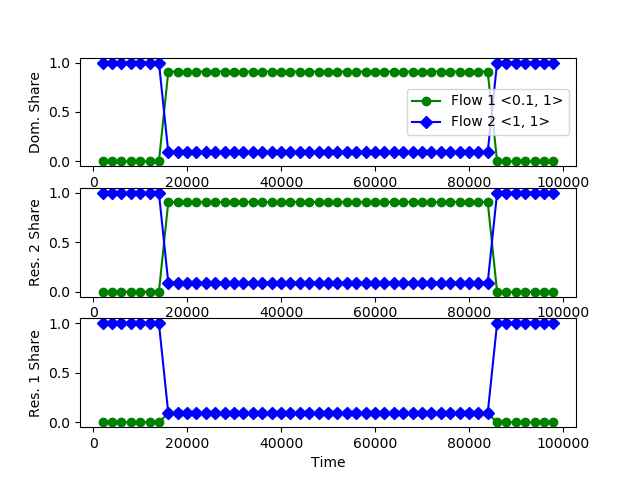
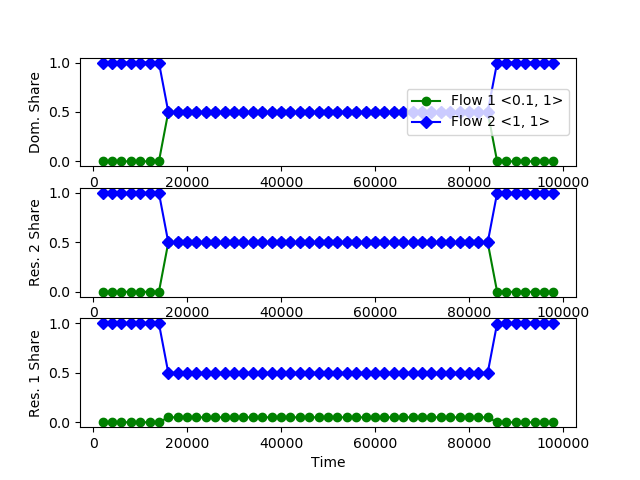
Rearranged code

Changed region(s): [[0.25, 0.4062, 0.7812, 0.625], [0.25, 0.125, 0.7812, 0.3438], [0.25, 0.6875, 0.7812, 0.9062]]

diff --git a/figures/figure_11.py b/figures/figure_11.py
@@ -1,123 +1,20 @@
-import numpy as np
 import matplotlib.pyplot as plt
-
-class Flow:
-    def __init__(self, profile, startTime = 0, endTime = 10000):
-        self.profile = profile
-        self.startTime = startTime
-        self.endTime = endTime
-        return 
-    def active(self, time):
-        return time >= self.startTime and time <= self.endTime
-
-def sample(packetsProcessed, flows, time):
-    total = [[0, 0]] * len(flows)
-    maxResource = [0, 0]
-    for i in range(len(flows)):
-        total[i] = [total[i][j] + packetsProcessed[i] * flows[i].profile[j] for j in range(2)]
-        maxResource = [maxResource[j] + packetsProcessed[i] * flows[i].profile[j] for j in range(2)]
-    maxResource = max(maxResource)
-    if maxResource == 0:
-        return [[time] + [0 for j in range(2)] for i in range(len(flows))]
-    else: return [[time] + [total[i][j] / maxResource for j in range(2)] for i in range(len(flows))]
-
-
-
-def SFSimulator(flows, maxTime = 15000, timeStep = 0.1, sampleTime = 2000, sampleSize = 1000): # For two resources
-    """
-    Single-resource Fair Queuing (For the first resource)
-    """
-    packetsProcessed = [0 for i in range(len(flows))]
-    packetInProcess = [0 for i in range(len(flows))]
-    samples = []
-
-    for t in range(round(maxTime/timeStep)):
-        time = t * timeStep
-
-        # measure the share of a sample 
-        if time > 0 and time % sampleTime == 0:
-            samples.append(sample(packetsProcessed, flows, time))
-        if time > 0 and time % sampleSize == 0:
-            packetsProcessed = [0 for i in range(len(flows))]
-
-        # counting active flows for resource 1
-        activeFlowNum = 0
-        for i in range(len(flows)): 
-            if flows[i].active(time): activeFlowNum += 1
-        for i in range(len(flows)):
-            if flows[i].active(time):
-                if packetInProcess[i] <= 0:
-                    packetInProcess[i] = flows[i].profile[0]
-                packetInProcess[i] -= timeStep/activeFlowNum
-                if packetInProcess[i] <= 0: # finish processing a packet for rsc 1
-                    packetsProcessed[i] += 1
-
-    return samples
-
-
-def PFSimulator(flows, maxTime = 15000, timeStep = 0.1, bufferThreshold = 1, \
-    sampleTime = 2000, sampleSize = 1000): # For two resources
-    """
-    Per-Resource Fairness
-    """
-
-    packetsProcessed = [0 for i in range(len(flows))]
-    packetInProcess1 = [0 for i in range(len(flows))]
-    packetInProcess2 = [0 for i in range(len(flows))]
-    buffer = [0 for i in range(len(flows))]
-    samples = []
-
-    for t in range(round(maxTime/timeStep)):
-        time = t * timeStep
-
-        # measure the share of a sample 
-        if time > 0 and time % sampleTime == 0:
-            samples.append(sample(packetsProcessed, flows, time))
-        if time > 0 and time % sampleSize == 0:
-            packetsProcessed = [0 for i in range(len(flows))]
-
-        # counting active flows for resource 1
-        activeFlowNum = 0
-        for i in range(len(flows)): # a flow is only competing for resource 1 if the buffer for rsc 2 is not full
-            if flows[i].active(time) and buffer[i] < bufferThreshold: activeFlowNum += 1
-        for i in range(len(flows)):
-            if flows[i].active(time) and buffer[i] < bufferThreshold:
-                if packetInProcess1[i] <= 0:
-                    packetInProcess1[i] = flows[i].profile[0]
-                packetInProcess1[i] -= timeStep/activeFlowNum
-                if packetInProcess1[i] <= 0: # finish processing a packet for rsc 1
-                    buffer[i] += 1
-
-        # counting active flows for resource 2
-        activeFlowNum = 0
-        for i in range(len(flows)):
-            if packetInProcess2[i] > 0 or buffer[i] > 0:
-                activeFlowNum += 1
-        for i in range(len(flows)):
-            if packetInProcess2[i] <= 0 and buffer[i] > 0:
-                packetInProcess2[i] = flows[i].profile[1]
-                buffer[i] -= 1
-            if packetInProcess2[i] > 0:
-                packetInProcess2[i] -= timeStep/activeFlowNum
-                if packetInProcess2[i] <= 0: # finish processing a packet
-                    packetsProcessed[i] += 1      
-
-    return samples
+import PF_simulation
 
 
 #---------------------------------------------------------------
 # Plotting Figure 11
-pf = SFSimulator([Flow((0.1, 1), startTime = 15000, endTime = 85000), \
-    Flow((1, 1), startTime = 0, endTime = 100000)], maxTime = 100000)
+sf = PF_simulation.SFSimulator([PF_simulation.Flow((0.1, 1), startTime = 15000, endTime = 85000), \
+    PF_simulation.Flow((1, 1), startTime = 0, endTime = 100000)], maxTime = 100000)
 _fig, axs = plt.subplots(3, 1)
 
-time = [pf[t][0][0] for t in range(len(pf))]
+time = [sf[t][0][0] for t in range(len(sf))]
 jobStyle = ['go-', 'bD-']
 label = ['Flow 1 <0.1, 1>', 'Flow 2 <1, 1>']
 for i in range(2): # for each flow
-    rsc1 = [pf[t][i][1] for t in range(len(pf))] # resource 1
-    rsc2 = [pf[t][i][2] for t in range(len(pf))] # resource 2
-    dom = [max(pf[t][i][1], pf[t][i][2]) for t in range(len(pf))] # dominant resource 
+    rsc1 = [sf[t][i][1] for t in range(len(sf))] # resource 1
+    rsc2 = [sf[t][i][2] for t in range(len(sf))] # resource 2
+    dom = [max(sf[t][i][1], sf[t][i][2]) for t in range(len(sf))] # dominant resource 
     axs[2].plot(time, rsc1, jobStyle[i])
     axs[1].plot(time, rsc2, jobStyle[i])
     axs[0].plot(time, dom, jobStyle[i], label=label[i])

diff --git a/figures/PF_simulation.py b/figures/PF_simulation.py
@@ -1,13 +1,8 @@
 import numpy as np
-
-def SFQScheduler(flows):
-    """
-    Takes in a list of Flow
-    """
-    return
+import matplotlib.pyplot as plt
 
 class Flow:
-    def __init__(self, profile, startTime = 0, endTime = 2000):
+    def __init__(self, profile, startTime = 0, endTime = 10000):
         self.profile = profile
         self.startTime = startTime
         self.endTime = endTime
@@ -15,17 +10,70 @@ class Flow:
     def active(self, time):
         return time >= self.startTime and time <= self.endTime
 
+def sample(packetsProcessed, flows, time):
+    total = [[0, 0]] * len(flows)
+    maxResource = [0, 0]
+    for i in range(len(flows)):
+        total[i] = [total[i][j] + packetsProcessed[i] * flows[i].profile[j] for j in range(2)]
+        maxResource = [maxResource[j] + packetsProcessed[i] * flows[i].profile[j] for j in range(2)]
+    maxResource = max(maxResource)
+    if maxResource == 0:
+        return [[time] + [0 for j in range(2)] for i in range(len(flows))]
+    else: return [[time] + [total[i][j] / maxResource for j in range(2)] for i in range(len(flows))]
 
-def PFScheduler(flows, maxTime = 2000, timeStep = 0.1, bufferThreshold = 1): # For two resources
+
+def SFSimulator(flows, maxTime = 15000, timeStep = 0.1, sampleTime = 2000, sampleSize = 1000): # For two resources
     """
-    Takes in a list of Flow
+    Single-resource Fair Queuing (For the first resource)
+    """
+    packetsProcessed = [0 for i in range(len(flows))]
+    packetInProcess = [0 for i in range(len(flows))]
+    samples = []
+
+    for t in range(round(maxTime/timeStep)):
+        time = t * timeStep
+
+        # measure the share of a sample 
+        if time > 0 and time % sampleTime == 0:
+            samples.append(sample(packetsProcessed, flows, time))
+        if time > 0 and time % sampleSize == 0:
+            packetsProcessed = [0 for i in range(len(flows))]
+
+        # counting active flows for resource 1
+        activeFlowNum = 0
+        for i in range(len(flows)): 
+            if flows[i].active(time): activeFlowNum += 1
+        for i in range(len(flows)):
+            if flows[i].active(time):
+                if packetInProcess[i] <= 0:
+                    packetInProcess[i] = flows[i].profile[0]
+                packetInProcess[i] -= timeStep/activeFlowNum
+                if packetInProcess[i] <= 0: # finish processing a packet for rsc 1
+                    packetsProcessed[i] += 1
+
+    return samples
+
+
+def PFSimulator(flows, maxTime = 15000, timeStep = 0.1, bufferThreshold = 1, \
+    sampleTime = 2000, sampleSize = 1000): # For two resources
+    """
+    Per-Resource Fairness
     """
     packetsProcessed = [0 for i in range(len(flows))]
     packetInProcess1 = [0 for i in range(len(flows))]
     packetInProcess2 = [0 for i in range(len(flows))]
     buffer = [0 for i in range(len(flows))]
+    samples = []
+
     for t in range(round(maxTime/timeStep)):
         time = t * timeStep
+
+        # measure the share of a sample 
+        if time > 0 and time % sampleTime == 0:
+            samples.append(sample(packetsProcessed, flows, time))
+        if time > 0 and time % sampleSize == 0:
+            packetsProcessed = [0 for i in range(len(flows))]
+
         # counting active flows for resource 1
         activeFlowNum = 0
         for i in range(len(flows)): # a flow is only competing for resource 1 if the buffer for rsc 2 is not full
@@ -50,21 +98,9 @@ def PFScheduler(flows, maxTime = 2000, timeStep = 0.1, bufferThreshold = 1): # F
             if packetInProcess2[i] > 0:
                 packetInProcess2[i] -= timeStep/activeFlowNum
                 if packetInProcess2[i] <= 0: # finish processing a packet
-                    packetsProcessed[i] += 1
-        #print('buffer:', buffer)
-        #print('packets processed:', packetsProcessed)
-        #print('packetInProcess2', packetInProcess2)
+                    packetsProcessed[i] += 1      
 
-    total = [[0, 0]] * len(flows)
-    maxResource = [0, 0]
-    for i in range(len(flows)):
-        total[i] = [total[i][j] + packetsProcessed[i] * flows[i].profile[j] for j in range(2)]
-        maxResource = [maxResource[j] + packetsProcessed[i] * flows[i].profile[j] for j in range(2)]
-    maxResource = max(maxResource)
-    share = [[total[i][j] / maxResource for j in range(2)] for i in range(len(flows))]
-    print(share)
-    return packetsProcessed
+    return samples
 
 
-PFScheduler([Flow((4, 1)), Flow((1, 2))])
-PFScheduler([Flow((4, 2)), Flow((1, 2))])
+

diff --git a/figures/figure_12.py b/figures/figure_12.py
@@ -1,13 +1,22 @@
 import numpy as np
 import matplotlib.pyplot as plt
-import figure_11 as util
-
-
+import PF_simulation as PF
 
 #---------------------------------------------------------------
-# Plotting Figure 11
-pf = util.SFSimulator([Flow((0.1, 1), startTime = 15000, endTime = 85000), \
-    Flow((1, 1), startTime = 0, endTime = 100000)], maxTime = 100000)
+# Confirming resource shares in 4.2
+pf1 = PF.PFSimulator([PF.Flow((4, 1)), PF.Flow((1, 2))], maxTime = 2001)[0]
+pf2 = PF.PFSimulator([PF.Flow((4, 2)), PF.Flow((1, 2))], maxTime = 2001)[0]
+
+print('Profile\t Resource 1 \t\t Resource 2')
+print('<4, 1>:\t', pf1[0][1], '\t', pf1[0][2])
+print('<1, 2>:\t', pf1[1][1], '\t', pf1[1][2], '\n')
+print('<4, 2>:\t', pf2[0][1], '\t\t\t', pf2[0][2])
+print('<1, 2>:\t', pf2[1][1], '\t\t\t', pf2[1][2])
+
+#---------------------------------------------------------------
+# Plotting Figure 12
+pf = PF.PFSimulator([PF.Flow((0.1, 1), startTime = 15000, endTime = 85000), \
+    PF.Flow((1, 1), startTime = 0, endTime = 100000)], maxTime = 100000)
 _fig, axs = plt.subplots(3, 1)
 
 time = [pf[t][0][0] for t in range(len(pf))]
